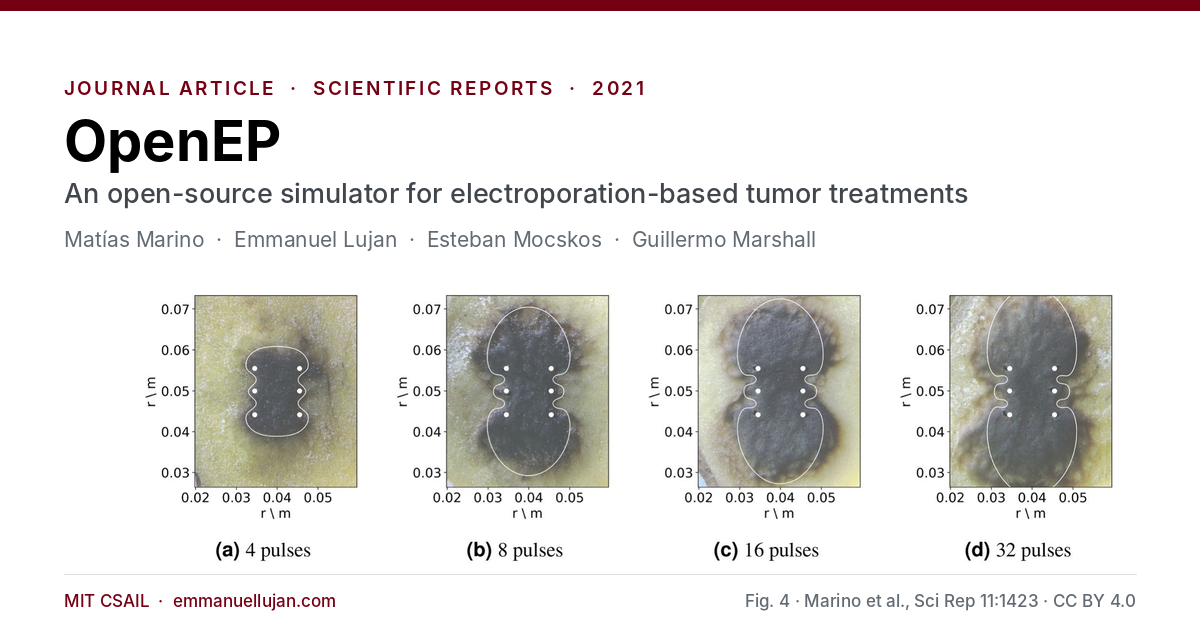
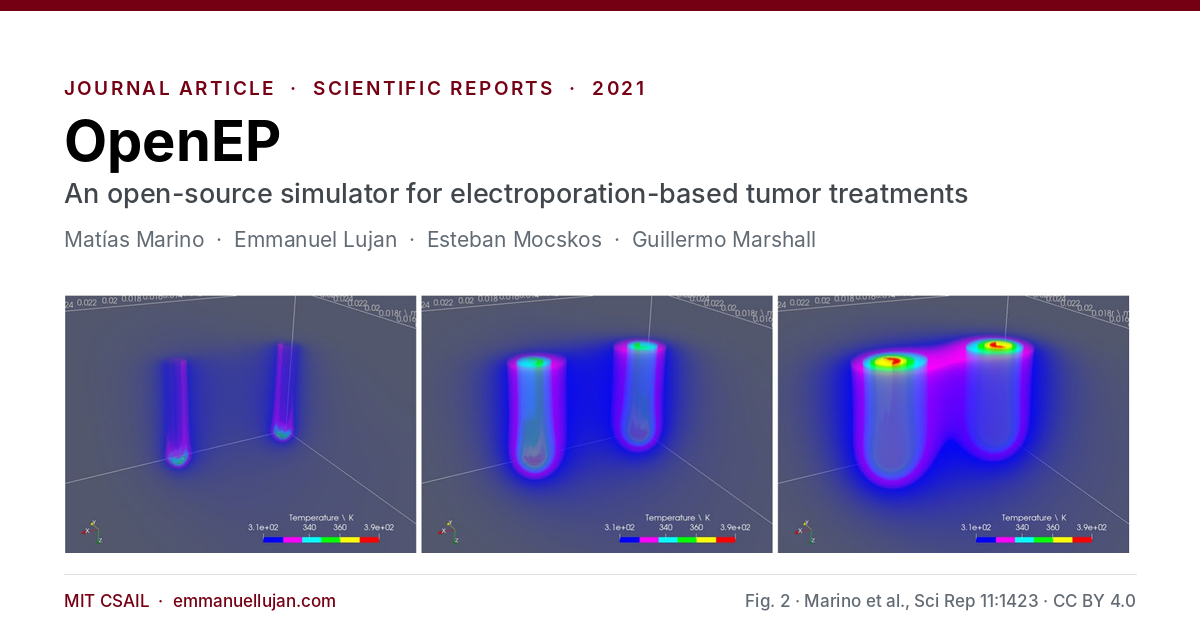
Use Figure 2 on the OpenEP page
Replaces Figure 4 with Figure 2 — simulated temperature distribution around
the electrodes after 1, 4 and 8 pulses — on the page and the social card.

The licensing is the reason, not just the look. The article is CC BY 4.0,
but that licence excludes third-party material carrying its own credit line,
and Figure 4 is captioned "Figure taken from Marino et al.", so it is
reproduced from an earlier publication and may sit outside it. Figure 2
carries no such credit: it is the authors' own output and squarely covered.
(Figure 7 is likewise credited to Sano et al. and should be avoided.)

Figure 2 also shows what the simulator computes rather than a photograph of
the experiment it was validated against.

Keeps the card script in tools/ so the figure can be recropped later.

diff --git a/papers/openep-electroporation-simulator/index.html b/papers/openep-electroporation-simulator/index.html
@@ -33,7 +33,7 @@
   <meta property="og:image" content="https://www.emmanuellujan.com/papers/openep-electroporation-simulator/card.png">
   <meta property="og:image:width" content="1200">
   <meta property="og:image:height" content="630">
-  <meta property="og:image:alt" content="OpenEP — an open-source simulator for electroporation-based tumor treatments. Figure: measured electroporated area growing across 4, 8, 16 and 32 pulses, with the simulator's predicted threshold contour overlaid.">
+  <meta property="og:image:alt" content="OpenEP — an open-source simulator for electroporation-based tumor treatments. Figure: simulated temperature plumes around two electrodes after 1, 4 and 8 pulses.">
   <meta name="twitter:card" content="summary_large_image">
   <meta name="twitter:image" content="https://www.emmanuellujan.com/papers/openep-electroporation-simulator/card.png">
   <meta name="twitter:title" content="OpenEP">
@@ -200,8 +200,8 @@
           <p>We present OpenEP, an open-source specific purpose simulator for EP-based tumor treatments, modeling among other variables, threshold, and electroporated tissue variations in time. Distributed under a free/libre user license, OpenEP allows the customization of tissue type; electrode geometry and material; pulse type, intensity, length, and frequency.</p>
           <p>OpenEP facilitates the prediction of an optimal EP-based protocol, such as ECT or GET, defined as the critical pulse dosage yielding maximum electroporated tissue with minimal damage. OpenEP displays a highly efficient shared memory implementation by taking advantage of parallel resources; this permits a rapid prediction of optimal EP-based treatment efficiency by pulse number tuning.</p>
           <figure class="figure">
-            <img src="fig4.png" alt="Four panels showing the measured electroporated area of potato tissue after 4, 8, 16 and 32 pulses, each overlaid with the threshold contour predicted by the OpenEP simulator. The darkened area grows with pulse number." width="1520" height="398" loading="lazy" decoding="async">
-            <figcaption>Measured electroporated area versus pulse number, with the simulator's predicted threshold contour overlaid. Figure 4 of the article, reproduced under CC BY 4.0.</figcaption>
+            <img src="fig2.png" alt="Six panels of simulated temperature distribution around two electrodes after 1, 4 and 8 pulses. The upper row shows the whole tissue domain; the lower row zooms in near the electrodes, where the heated regions grow and merge as pulses accumulate." width="1520" height="866" loading="lazy" decoding="async">
+            <figcaption>OpenEP predictions of the temperature variation in space for pulses 1, 4 and 8 (250&nbsp;V/cm, 50&nbsp;ms, 1&nbsp;Hz); the lower row zooms in near the electrodes. Figure 2 of the article, reproduced under CC BY 4.0.</figcaption>
           </figure>
           <p class="source-note">Published open access in <em>Scientific Reports</em> under a <a href="https://creativecommons.org/licenses/by/4.0/">Creative Commons Attribution 4.0 International</a> licence; the full text is read from the <a href="https://doi.org/10.1038/s41598-020-79858-y">version of record</a> at Springer Nature. The figure below is reproduced under that same licence.</p>
         </section>

diff --git a/tools/make_card_openep.py b/tools/make_card_openep.py
@@ -1,0 +1,71 @@
+from PIL import Image, ImageDraw, ImageFont
+
+SP = "/tmp/claude-1000/-home-eljn-projects-emmanuellujan-github-io/47216750-be82-4d82-9ec6-330efff50e2b/scratchpad"
+F = "/usr/share/fonts/opentype/inter"
+RED, INK, MUTED, FAINT = "#750014", "#000000", "#40464c", "#626a73"
+W, H, PAD = 1200, 630, 64
+
+card = Image.new("RGB", (W, H), "#ffffff")
+d = ImageDraw.Draw(card)
+d.rectangle([0, 0, W, 10], fill=RED)
+
+f_eyebrow = ImageFont.truetype(f"{F}/Inter-SemiBold.otf", 19)
+f_title = ImageFont.truetype(f"{F}/Inter-Bold.otf", 56)
+f_sub = ImageFont.truetype(f"{F}/Inter-Medium.otf", 27)
+f_auth = ImageFont.truetype(f"{F}/Inter-Regular.otf", 21)
+f_foot = ImageFont.truetype(f"{F}/Inter-Medium.otf", 17)
+
+
+def tracked(draw, xy, text, font, fill, track=2.4):
+    x, y = xy
+    for ch in text:
+        draw.text((x, y), ch, font=font, fill=fill)
+        x += draw.textlength(ch, font=font) + track
+
+
+def wrap(draw, text, font, max_w):
+    words, lines, cur = text.split(), [], ""
+    for w_ in words:
+        t = f"{cur} {w_}".strip()
+        if draw.textlength(t, font=font) <= max_w:
+            cur = t
+        else:
+            lines.append(cur)
+            cur = w_
+    if cur:
+        lines.append(cur)
+    return lines
+
+
+TEXT_W = W - 2 * PAD
+y = 76
+tracked(d, (PAD, y), "JOURNAL ARTICLE  ·  SCIENTIFIC REPORTS  ·  2021", f_eyebrow, RED)
+
+y = 106
+d.text((PAD, y), "OpenEP", font=f_title, fill=INK)
+y += 70
+
+for line in wrap(d, "An open-source simulator for electroporation-based tumor treatments",
+                 f_sub, TEXT_W):
+    d.text((PAD, y), line, font=f_sub, fill=MUTED)
+    y += 36
+y += 14
+
+d.text((PAD, y), "Matías Marino  ·  Emmanuel Lujan  ·  Esteban Mocskos  ·  Guillermo Marshall",
+       font=f_auth, fill=FAINT)
+
+# Figure 2: simulated temperature plumes around the electrodes.
+fig = Image.open(f"{SP}/openep_fig2_strip.png").convert("RGB")
+fw = W - 2 * PAD
+fig = fig.resize((fw, round(fig.height * fw / fig.width)), Image.LANCZOS)
+card.paste(fig, (PAD, 292))
+
+d.line([PAD, H - 56, W - PAD, H - 56], fill="#dde1e6", width=1)
+d.text((PAD, H - 40), "MIT CSAIL  ·  emmanuellujan.com", font=f_foot, fill=RED)
+credit = "Fig. 2 · Marino et al., Sci Rep 11:1423 · CC BY 4.0"
+d.text((W - PAD - d.textlength(credit, font=f_foot), H - 40), credit, font=f_foot, fill=FAINT)
+
+out = ("/home/eljn/projects/emmanuellujan.github.io/papers/"
+       "openep-electroporation-simulator/card.png")
+card.save(out, optimize=True)
+print("wrote", out, card.size)
